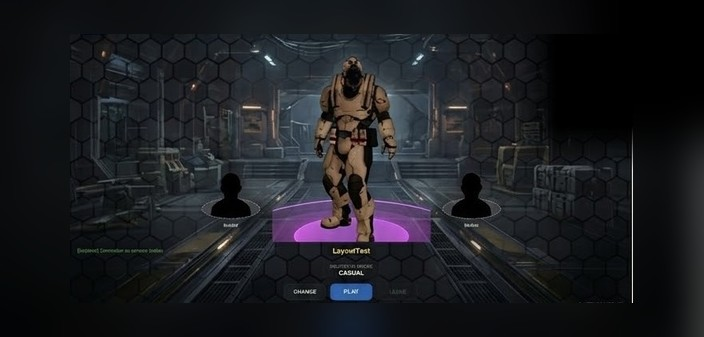
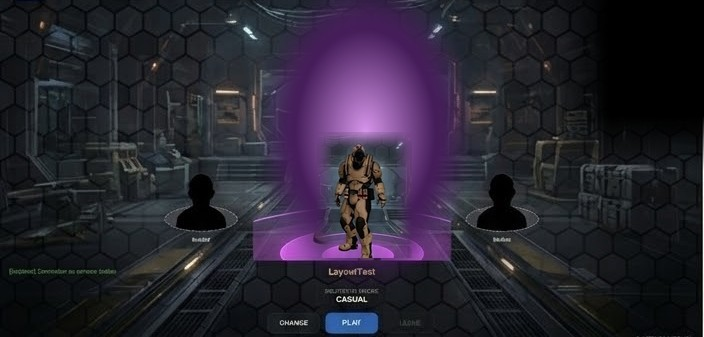
Restaure le fond plein cadre et retrecit fortement le personnage
Annule le zoom global precedent (qui laissait des bords flous et ne
couvrait plus tout l'ecran) et revient au fond plein cadre d'avant.
Le personnage est desormais retreci uniquement dans sa propre zone,
sur fond d'un halo lumineux violet qui masque completement l'ancienne
silhouette. Ronds de sol des emplacements d'equipe encore reduits.

diff --git a/app/src/screens/LobbyScreen.tsx b/app/src/screens/LobbyScreen.tsx
@@ -34,7 +34,7 @@ function renderPartySlot(mate: { id: number; username: string; online: boolean }
       ) : (
         <Text style={styles.plusIcon}>+</Text>
       )}
-      <GroundDisc color={color} dashed={!mate} width={96} height={34} />
+      <GroundDisc color={color} dashed={!mate} width={55} height={20} />
       <Text style={styles.partySlotLabel} numberOfLines={1}>
         {mate ? mate.username : 'Inviter'}
       </Text>
@@ -240,20 +240,20 @@ const styles = StyleSheet.create({
   name: { color: '#fdd835', fontWeight: '700', fontSize: 16 },
   centerRow: { flexDirection: 'row', alignItems: 'flex-end', justifyContent: 'center', gap: 20 },
   characterColumn: { alignItems: 'center', gap: 8 },
-  partySlot: { alignItems: 'center', gap: 4, width: 110, marginBottom: 66 },
-  slotTop: { alignItems: 'center', justifyContent: 'center', height: 32 },
-  plusIcon: { color: 'rgba(255,255,255,0.55)', fontSize: 28, fontWeight: '300', height: 32, lineHeight: 32 },
+  partySlot: { alignItems: 'center', gap: 3, width: 66, marginBottom: 66 },
+  slotTop: { alignItems: 'center', justifyContent: 'center', height: 20 },
+  plusIcon: { color: 'rgba(255,255,255,0.55)', fontSize: 18, fontWeight: '300', height: 20, lineHeight: 20 },
   slotBadge: {
-    width: 32,
-    height: 32,
-    borderRadius: 16,
+    width: 20,
+    height: 20,
+    borderRadius: 10,
     backgroundColor: 'rgba(20,23,27,0.85)',
     borderWidth: 2,
     alignItems: 'center',
     justifyContent: 'center',
   },
-  slotInitials: { color: '#fff', fontWeight: '800', fontSize: 11 },
-  onlineDot: { position: 'absolute', bottom: -2, right: -2, width: 10, height: 10, borderRadius: 5, borderWidth: 2, borderColor: '#0d0d0d' },
+  slotInitials: { color: '#fff', fontWeight: '800', fontSize: 8 },
+  onlineDot: { position: 'absolute', bottom: -1, right: -1, width: 7, height: 7, borderRadius: 4, borderWidth: 1.5, borderColor: '#0d0d0d' },
   partySlotLabel: { color: '#aaa', fontSize: 11, fontWeight: '600', marginTop: 2 },
   sidebar: { position: 'absolute', top: 74, right: 16, width: 100, gap: 10 },
   sidebarButton: {
